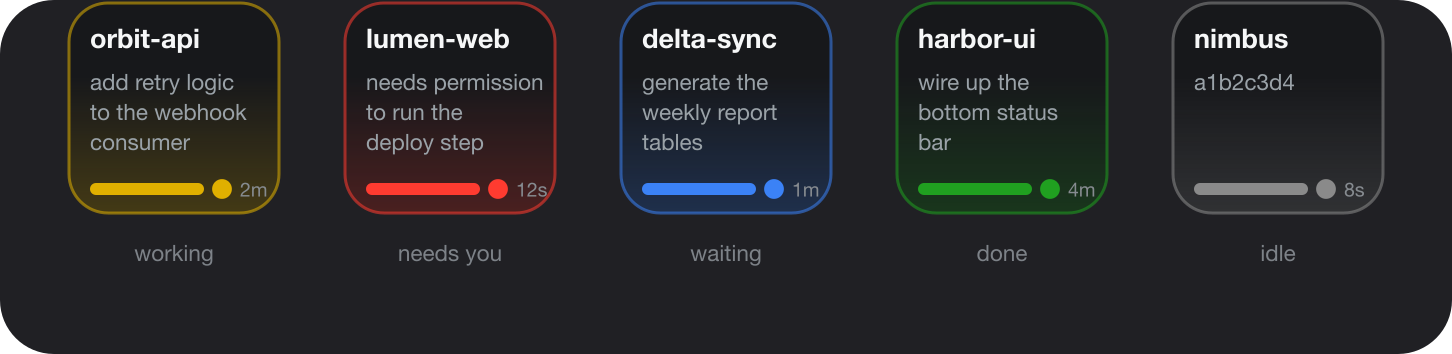
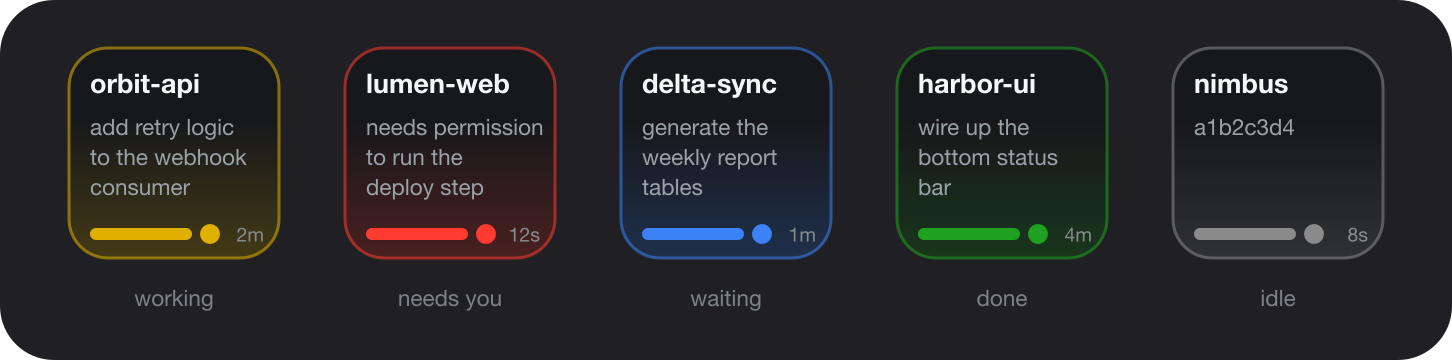
Right-align elapsed time and center hero panel
Elapsed text is now right-aligned so 3-char values (e.g. 12s) no longer
clip at the card edge. Regenerated the README hero with equal top/bottom
margins (vertically centered).

diff --git a/com.eduard.claudestatus.sdPlugin/bin/plugin.js b/com.eduard.claudestatus.sdPlugin/bin/plugin.js
@@ -83,9 +83,9 @@ function renderKey(rec, on = true) {
     `<rect x="1" y="1" width="70" height="70" rx="13" fill="url(#g)"/>` +
     `<text x="8" y="16" font-size="9" font-weight="700" fill="#f6f7f8" font-family="${FONT}">${esc(repo)}</text>` +
     body +
-    `<rect x="8" y="61" width="38" height="4" rx="2" fill="${color}" fill-opacity="${a}"/>` +
-    `<circle cx="52" cy="63" r="3.3" fill="${color}" fill-opacity="${a}"/>` +
-    (age ? `<text x="58" y="65.5" font-size="6.5" fill="#868b90" font-family="${FONT}">${age}</text>` : ""),
+    `<rect x="8" y="61" width="34" height="4" rx="2" fill="${color}" fill-opacity="${a}"/>` +
+    `<circle cx="48" cy="63" r="3.3" fill="${color}" fill-opacity="${a}"/>` +
+    (age ? `<text x="66" y="65.5" font-size="6.5" fill="#868b90" text-anchor="end" font-family="${FONT}">${age}</text>` : ""),
     color,
     0.22 * a
   );